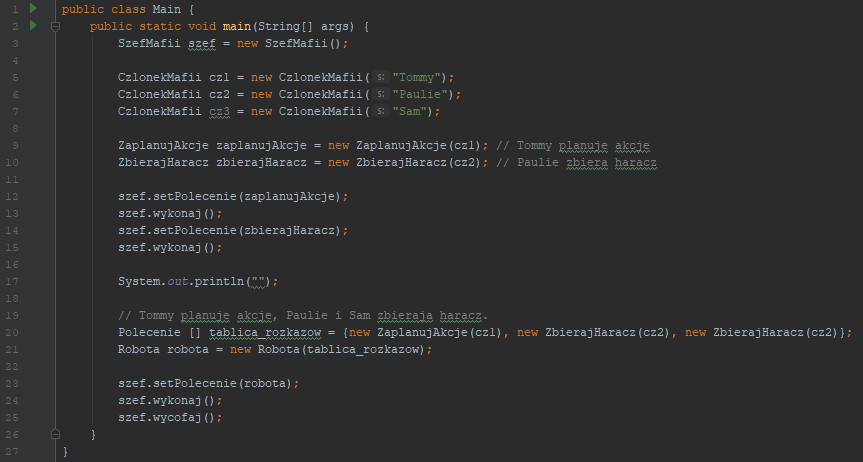
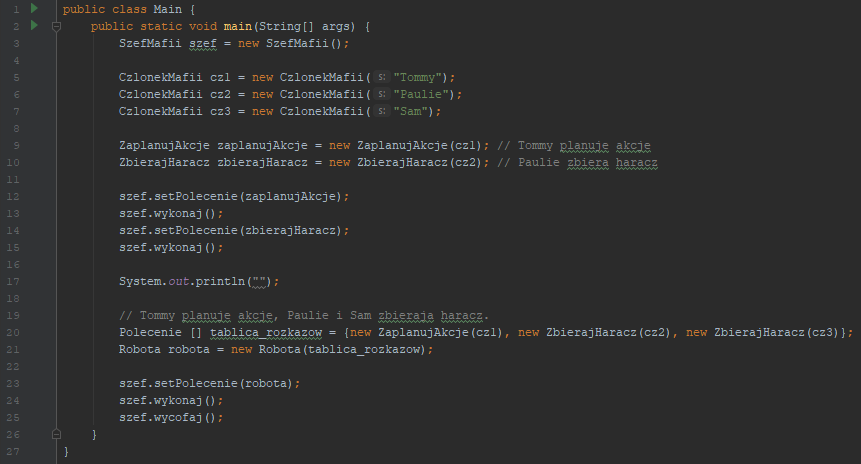
Polecenie

diff --git a/23 DAYS CHALLANGE WZORCOWY/Polecenie/Polecenie/src/Main.java b/23 DAYS CHALLANGE WZORCOWY/Polecenie/Polecenie/src/Main.java
@@ -17,7 +17,7 @@ public class Main {
         System.out.println("");
 
         // Tommy planuje akcje, Paulie i Sam zbieraja haracz.
-        Polecenie [] tablica_rozkazow = {new ZaplanujAkcje(cz1), new ZbierajHaracz(cz2), new ZbierajHaracz(cz2)};
+        Polecenie [] tablica_rozkazow = {new ZaplanujAkcje(cz1), new ZbierajHaracz(cz2), new ZbierajHaracz(cz3)};
         Robota robota = new Robota(tablica_rozkazow);
 
         szef.setPolecenie(robota);
@@ -25,5 +25,6 @@ public class Main {
         szef.wycofaj();
     }
 }
+
 
 
